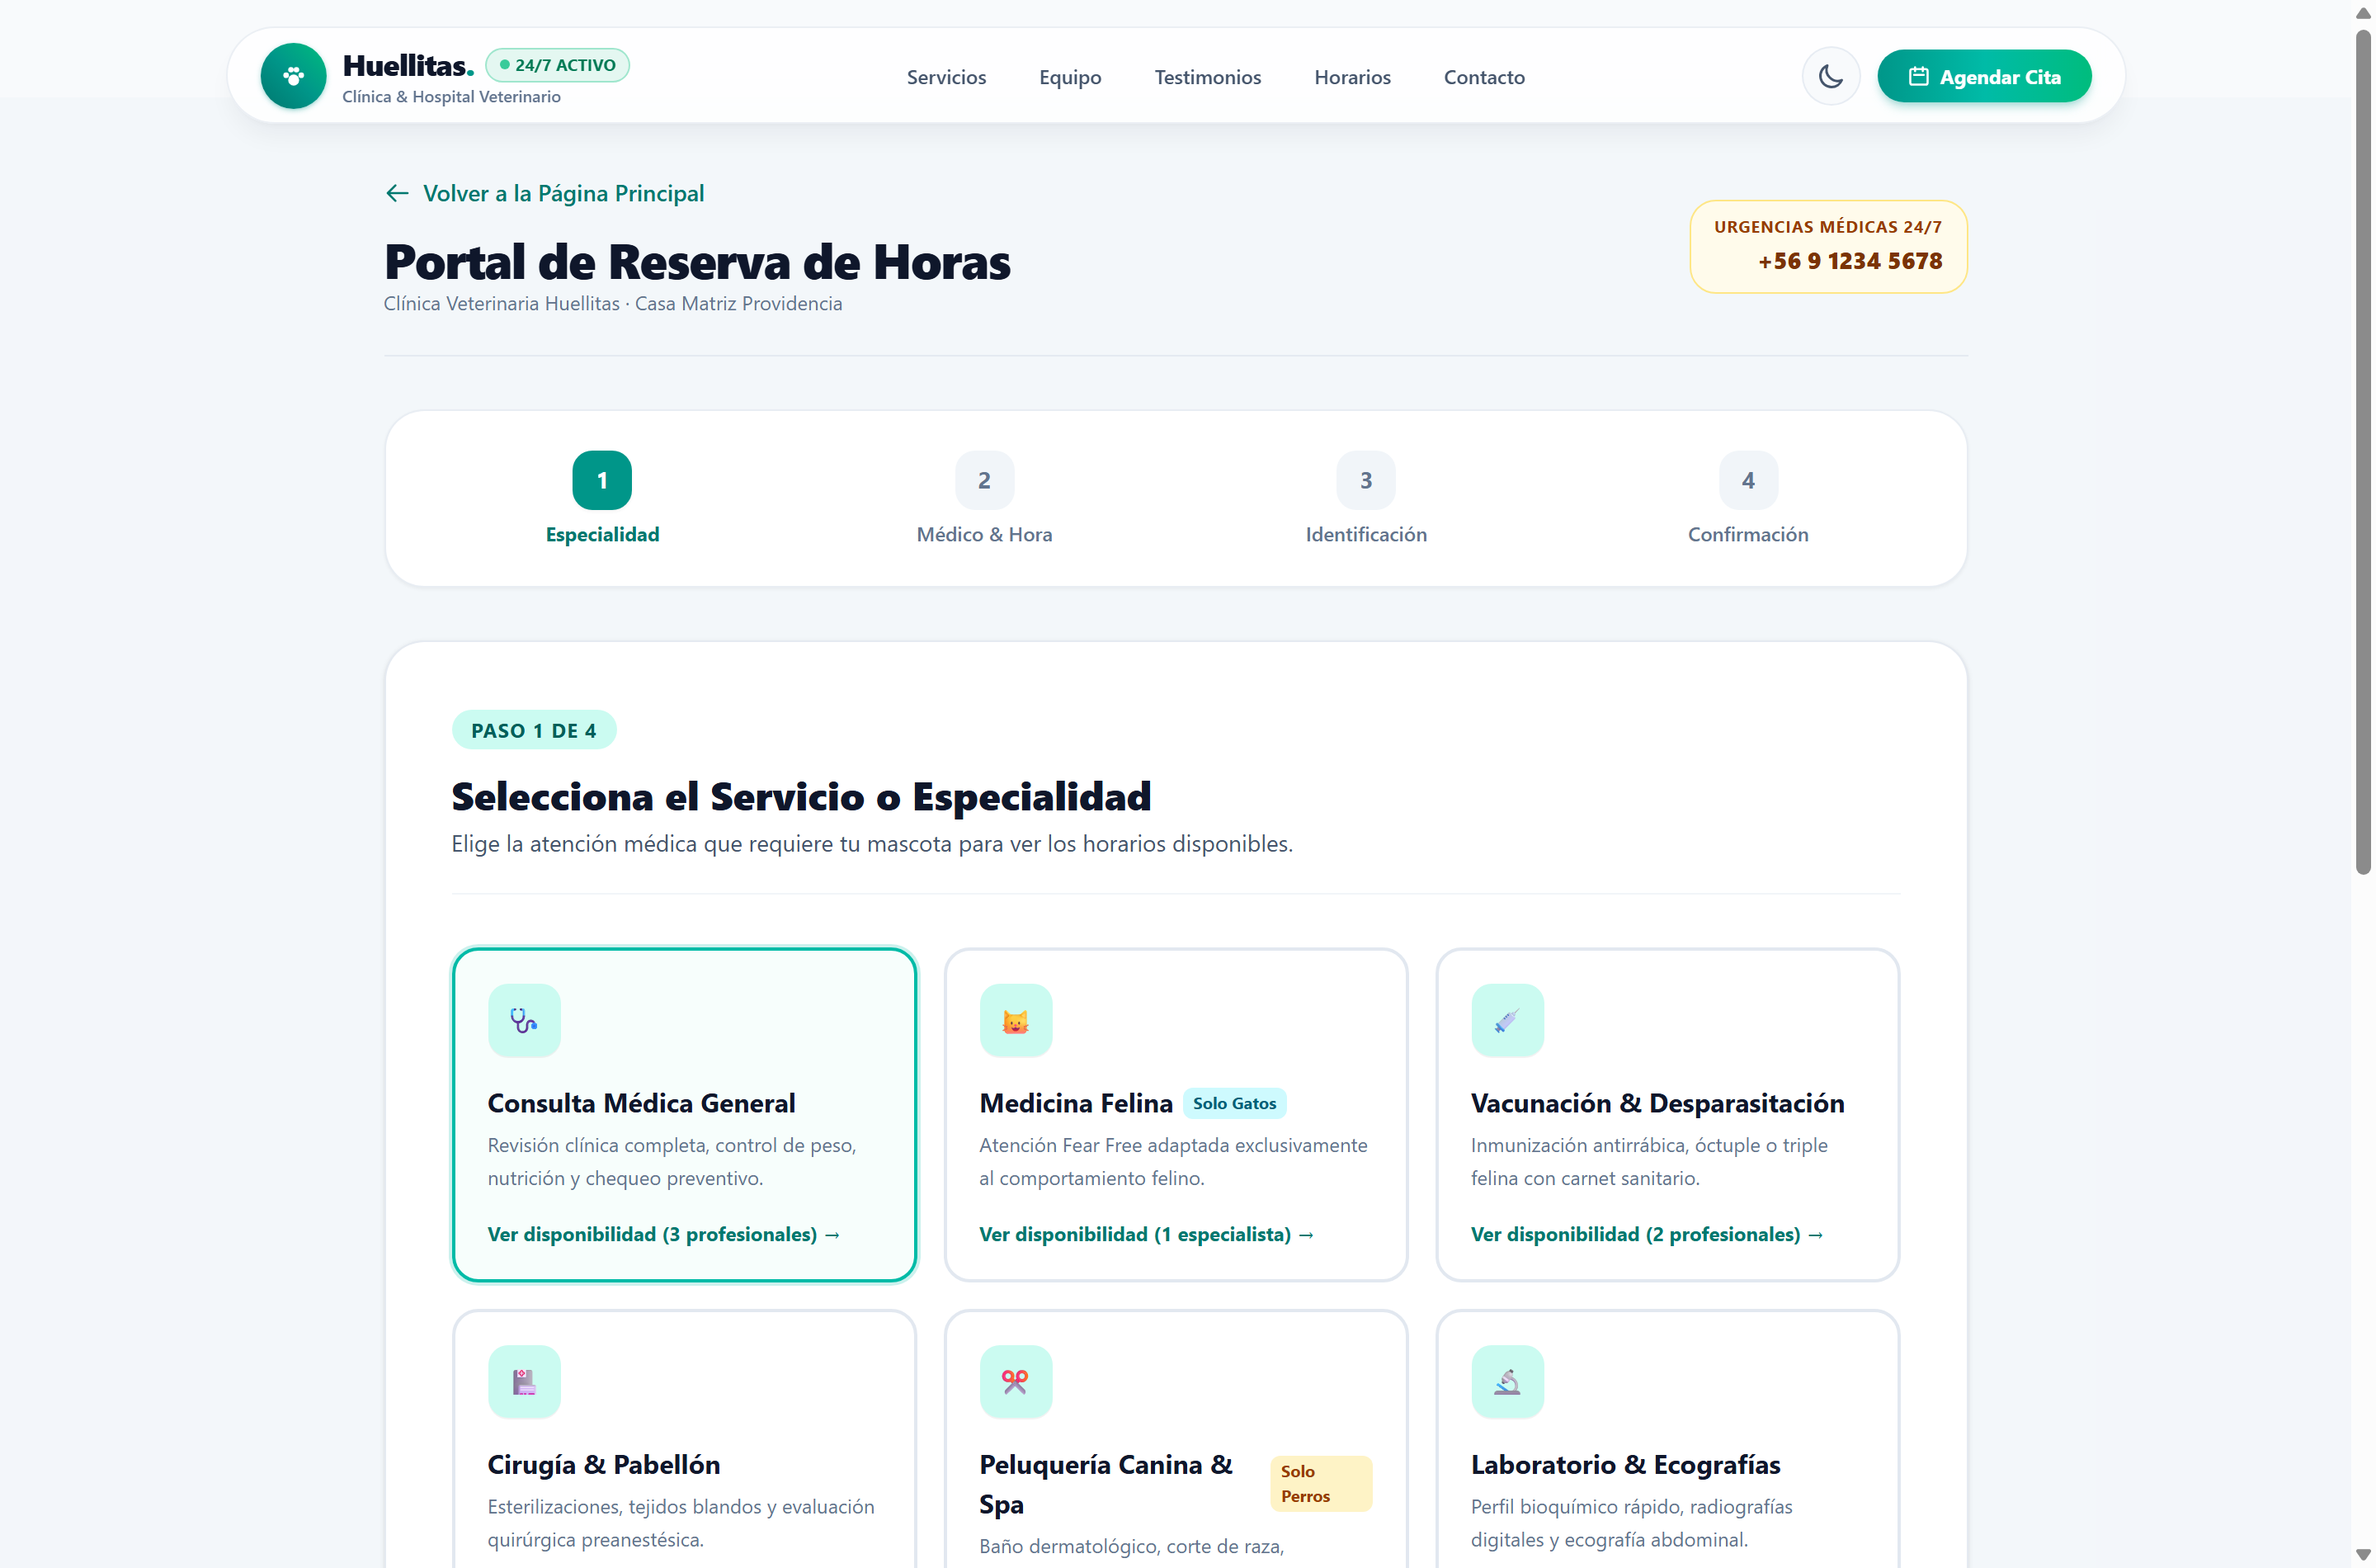
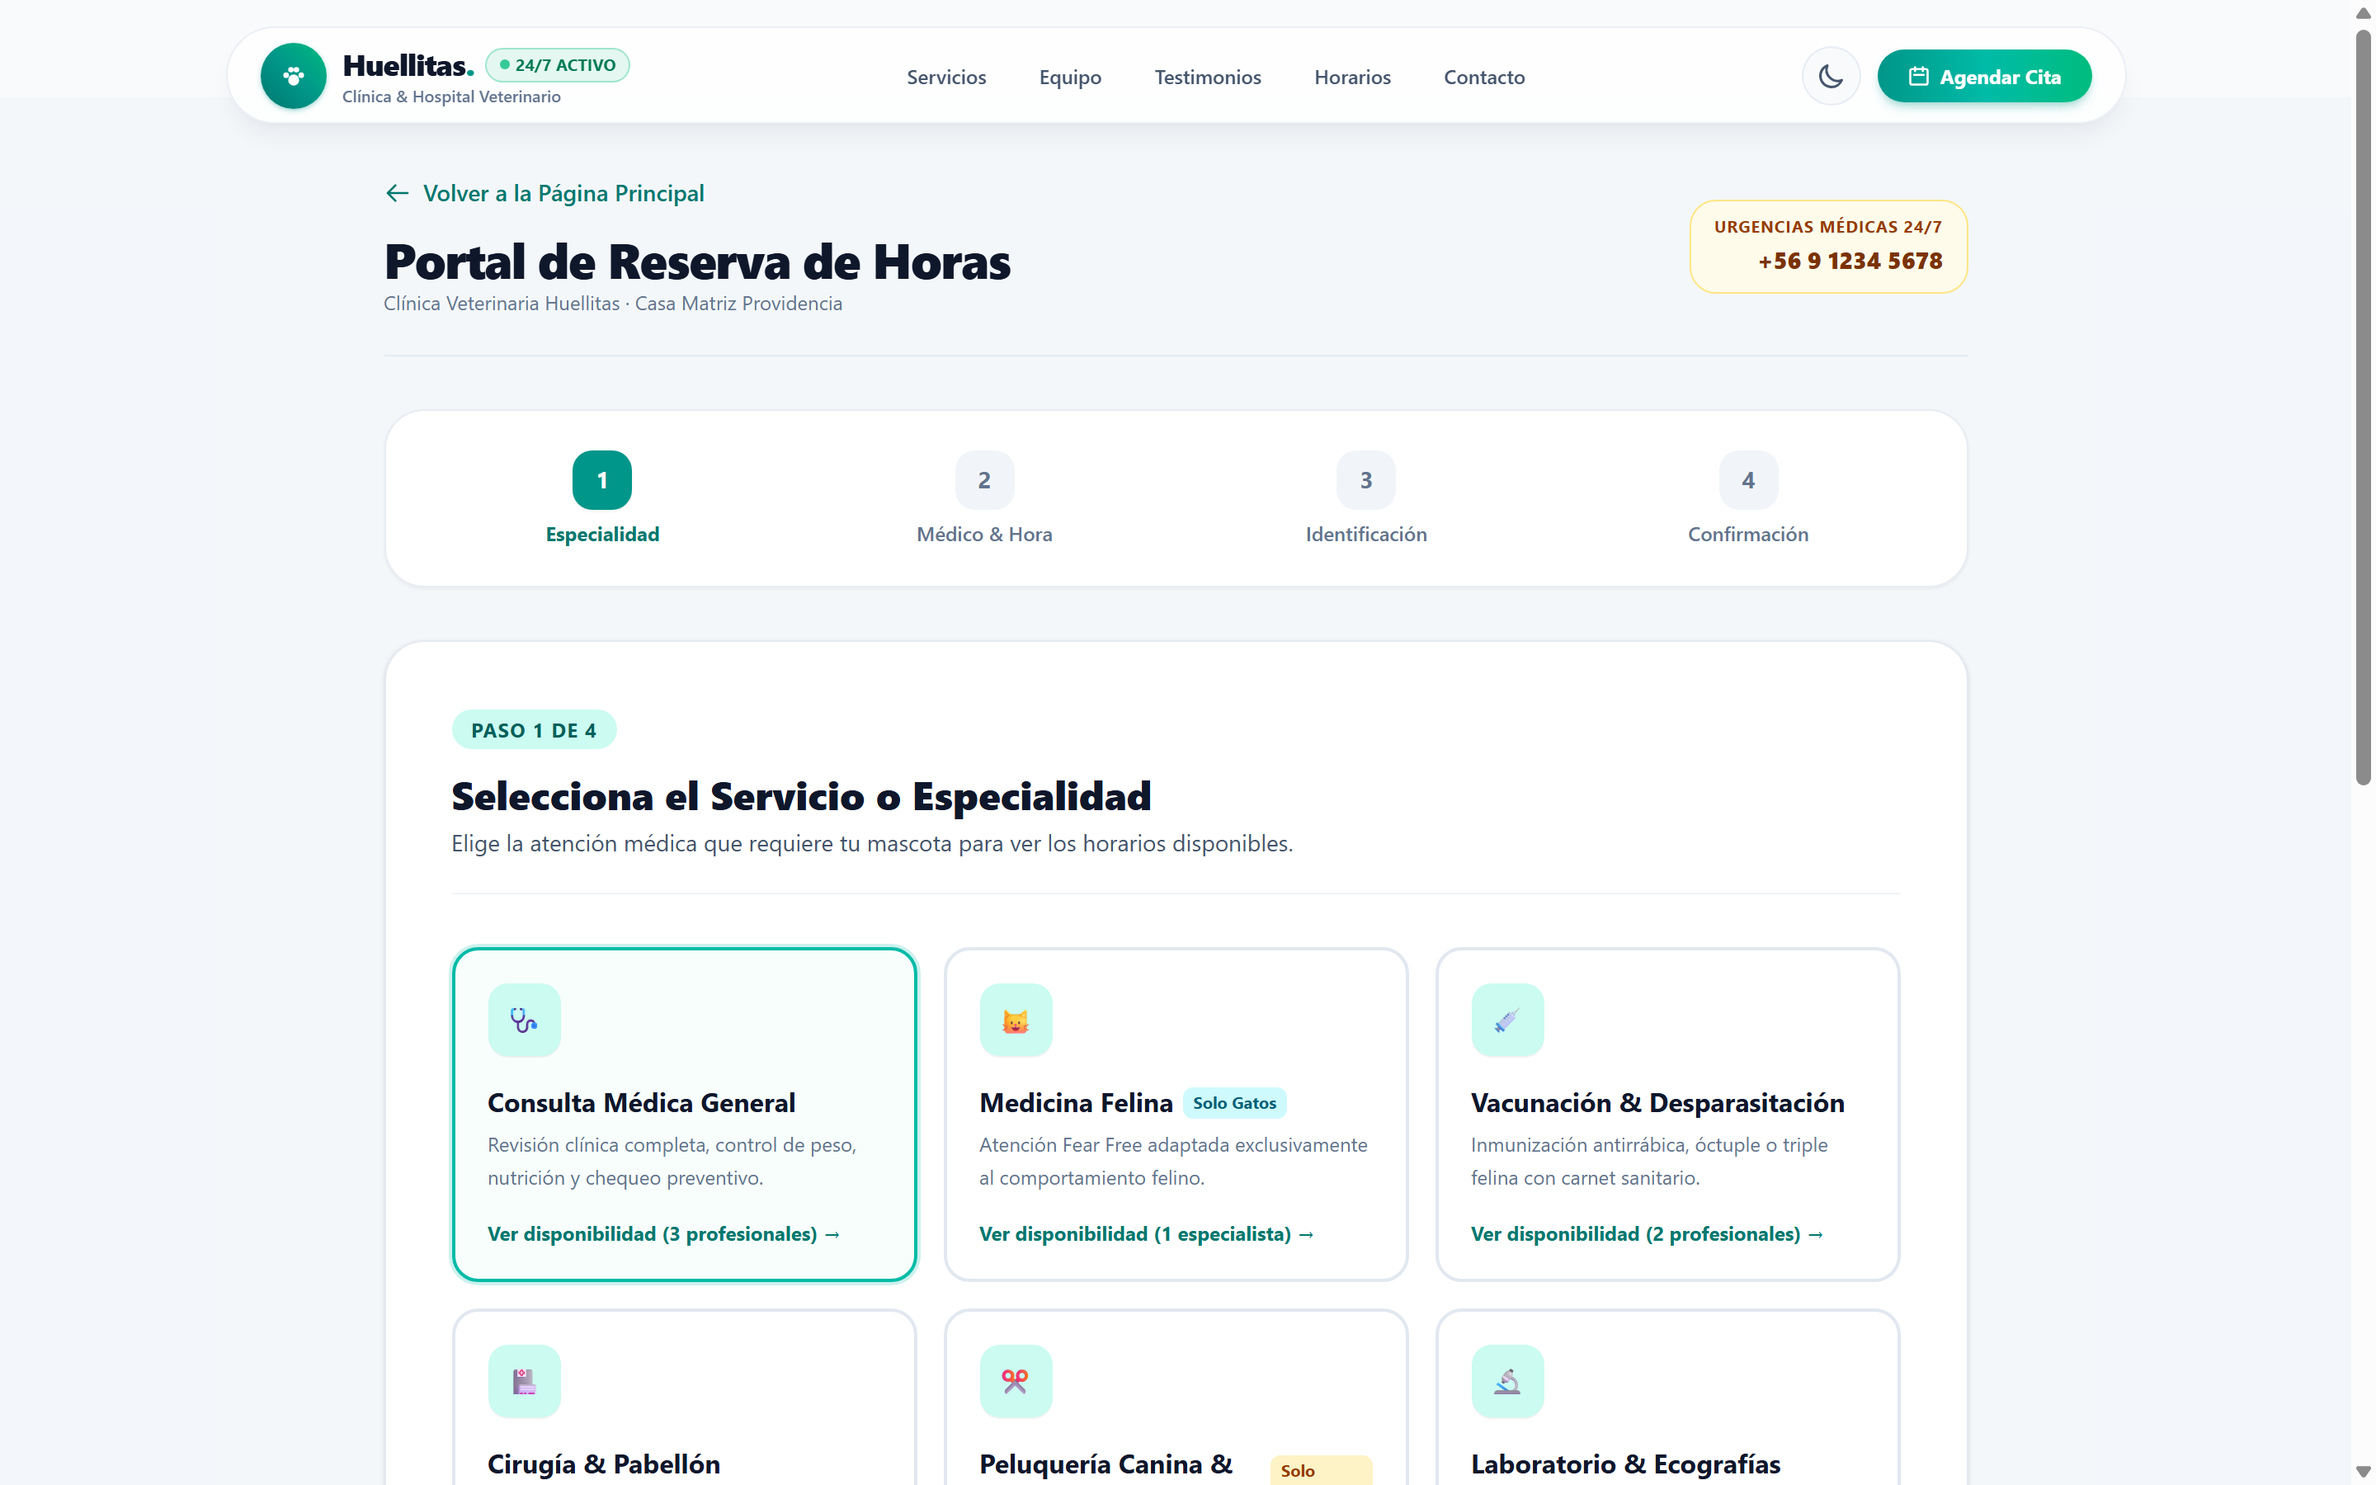
docs(readme): simetriza columnas al 50% en desktop y ajusta ancho realista de 260px en vistas moviles

diff --git a/README.md b/README.md
@@ -20,19 +20,62 @@
 
 ### Versión de Escritorio (Desktop)
 
-| Landing Page (Modo Claro) | Portal de Agendamiento (`/agendar`) |
-| :---: | :---: |
-| ![Hero Modo Claro](./docs/screenshots/01-hero-desktop.png) | ![Agendamiento Modo Claro](./docs/screenshots/02-agendamiento-desktop.png) |
+<table>
+  <thead>
+    <tr>
+      <th width="50%" align="center">Landing Page (Modo Claro)</th>
+      <th width="50%" align="center">Portal de Agendamiento (<code>/agendar</code>)</th>
+    </tr>
+  </thead>
+  <tbody>
+    <tr>
+      <td width="50%" valign="top">
+        <img src="./docs/screenshots/01-hero-desktop.png" alt="Hero Modo Claro" width="100%" />
+      </td>
+      <td width="50%" valign="top">
+        <img src="./docs/screenshots/02-agendamiento-desktop.png" alt="Agendamiento Modo Claro" width="100%" />
+      </td>
+    </tr>
+  </tbody>
+</table>
 
-| Landing Page (Modo Oscuro) |
-| :---: |
-| ![Hero Modo Oscuro](./docs/screenshots/03-hero-dark-desktop.png) |
+<table>
+  <thead>
+    <tr>
+      <th align="center">Landing Page (Modo Oscuro)</th>
+    </tr>
+  </thead>
+  <tbody>
+    <tr>
+      <td align="center">
+        <img src="./docs/screenshots/03-hero-dark-desktop.png" alt="Hero Modo Oscuro" width="100%" />
+      </td>
+    </tr>
+  </tbody>
+</table>
 
 ### Versión Móvil (Samsung Galaxy A55 · 360 x 800)
 
-| Landing Móvil (Hero & Urgencias 24/7) | Agendamiento Móvil (`/agendar`) |
-| :---: | :---: |
-| ![Mobile Hero](./docs/screenshots/04-mobile-hero.png) | ![Mobile Agendar](./docs/screenshots/05-mobile-agendar.png) |
+<div align="center">
+  <table>
+    <thead>
+      <tr>
+        <th width="280" align="center">Landing Móvil (Hero & Urgencias 24/7)</th>
+        <th width="280" align="center">Agendamiento Móvil (<code>/agendar</code>)</th>
+      </tr>
+    </thead>
+    <tbody>
+      <tr>
+        <td width="280" align="center" valign="top">
+          <img src="./docs/screenshots/04-mobile-hero.png" alt="Mobile Hero" width="260" />
+        </td>
+        <td width="280" align="center" valign="top">
+          <img src="./docs/screenshots/05-mobile-agendar.png" alt="Mobile Agendar" width="260" />
+        </td>
+      </tr>
+    </tbody>
+  </table>
+</div>
 
 ---
 
